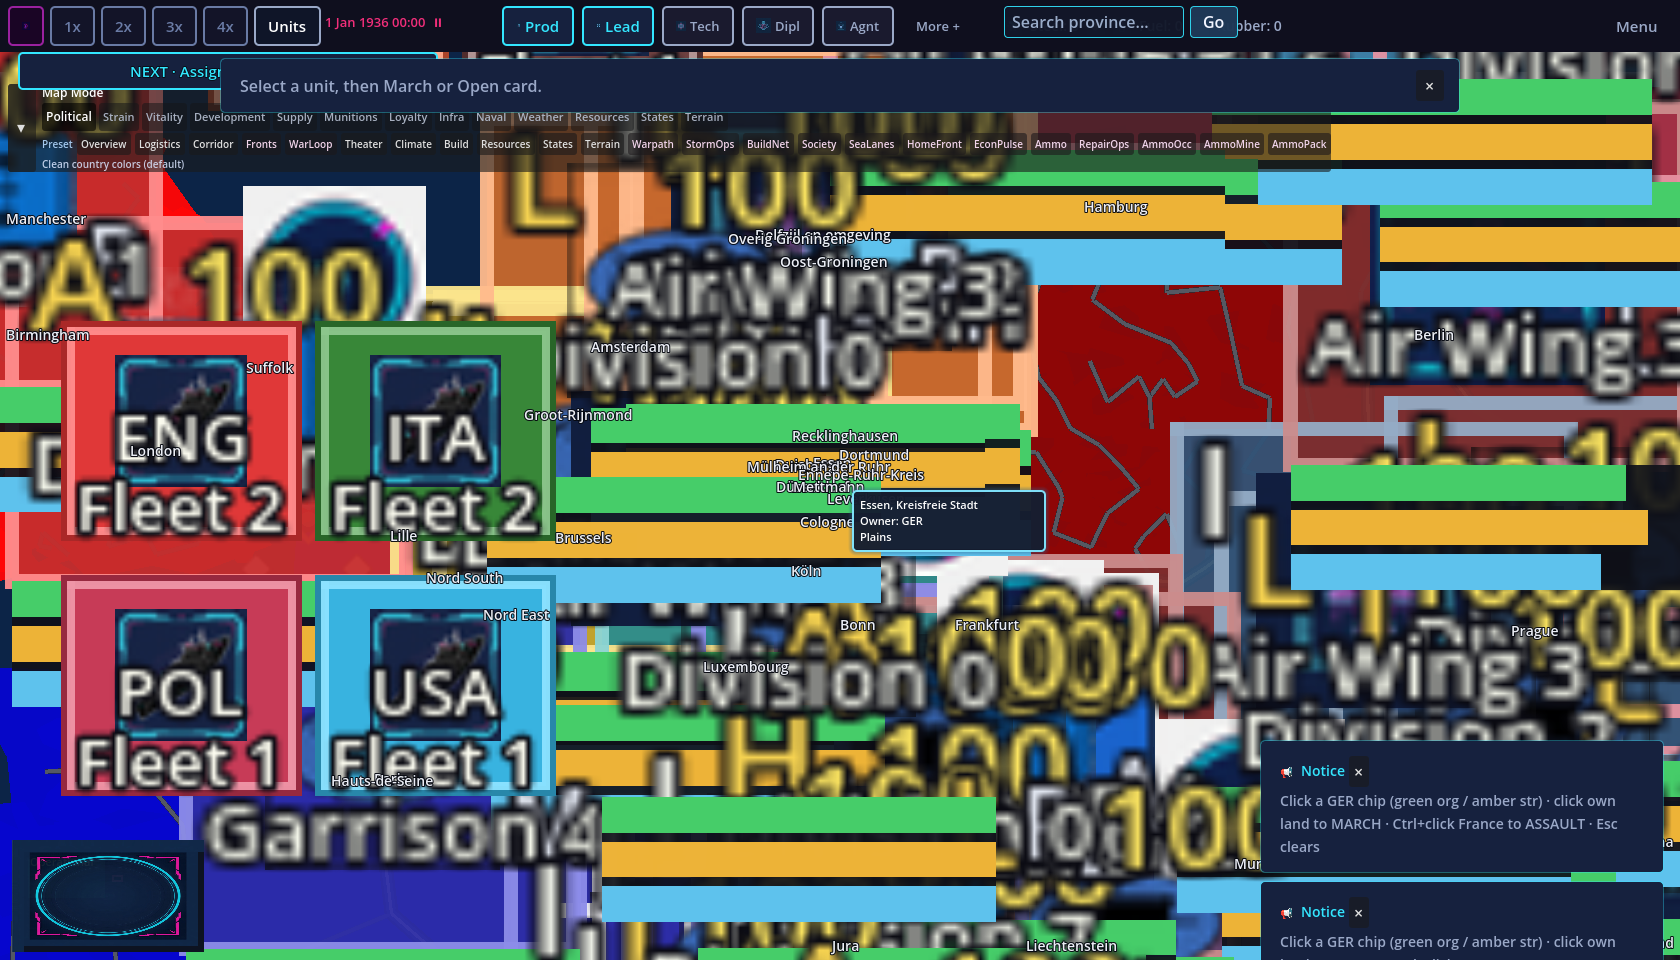
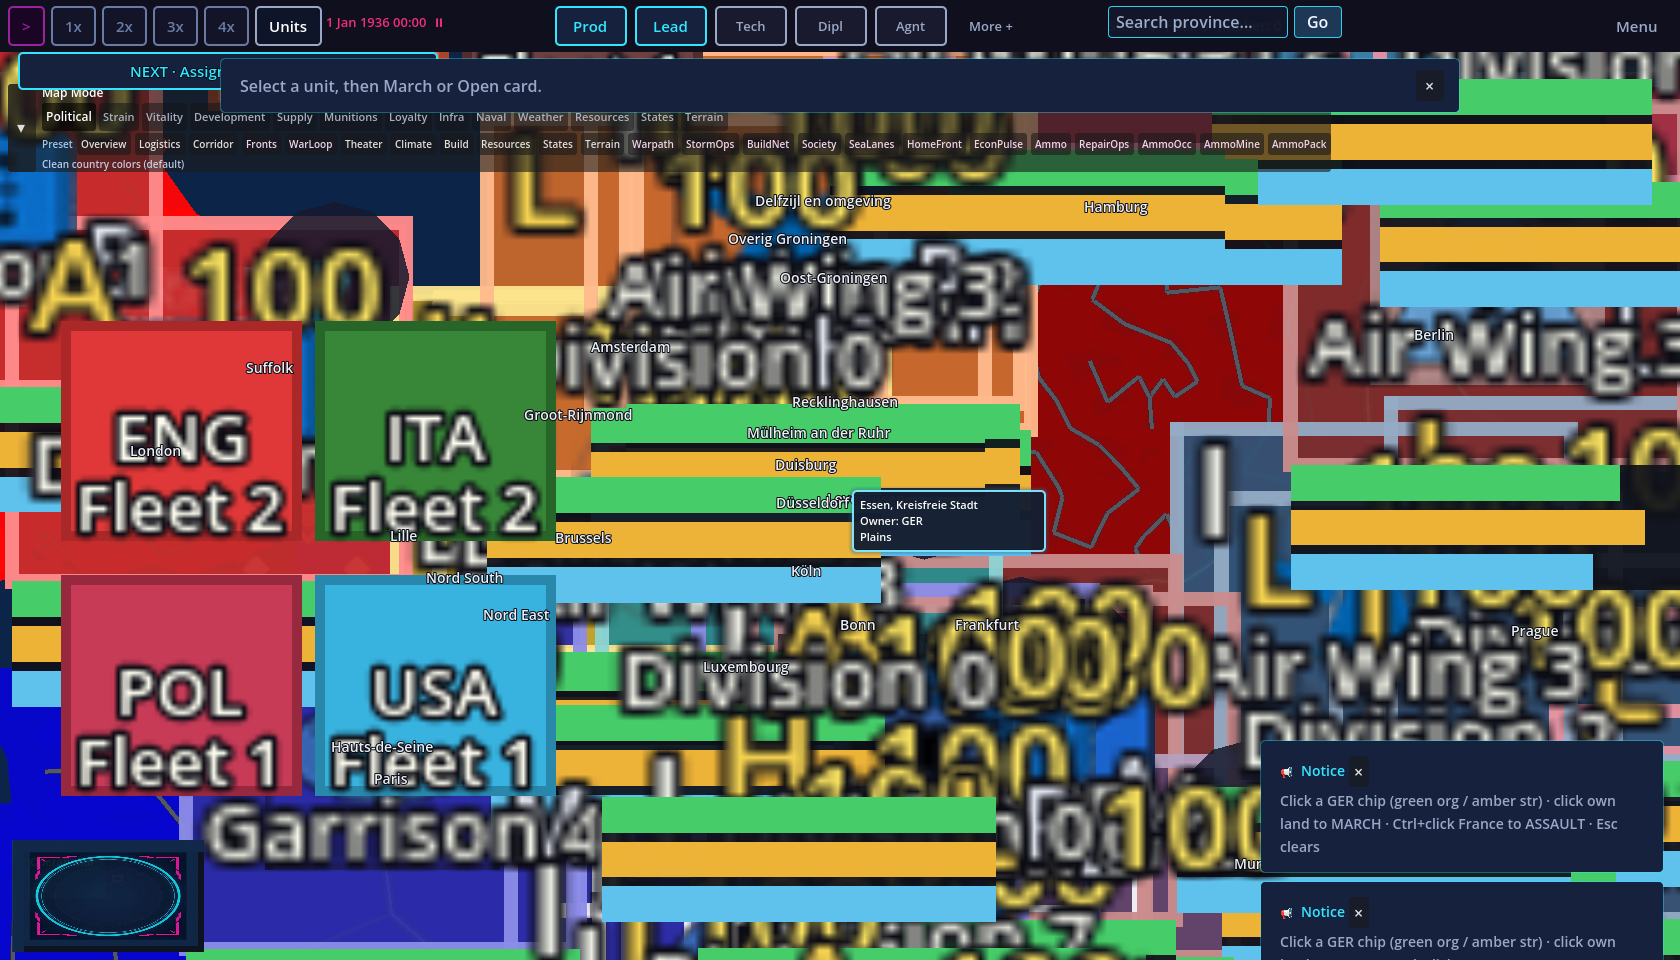
HWY-3 FIX #6: record pixel, Ruhr, trim, and gate evidence
Document gold cover 1.000, casing ceilings, Essen z2.4/z4 label lists,
the Lyon–Marseille trim, live 114 / headless 113, and the 14 known reds.

diff --git a/docs/TESTING_PLAN.md b/docs/TESTING_PLAN.md
@@ -980,7 +980,7 @@ Pixel: `WindowedRt1RoadTierPixelGuard` measures the **fixed** `710412–710424` 
 
 Display highways are **trunk shortest paths between hubs** (capitals, largest cities, significant ports). Urban-district neighbour count is an **optional weight** only. Rank-and-grow stays as a fallback for synthetic Part A (no hub records) and as the `rank_grow_back` mutant. Each accepted route is a **simple path** (no repeated vertex, no >150° hook-back, length ≤1.6× hub chord, zigzag ≤1.5π per 6 edges). FIX #1 paints one tree per large country; budget is **2× of 52** (60–114). 0 singletons, median ≥4. Far highways keep casing/core + 20 px floor so the wide Germany frame shows routes; dirt/paved stay culled.
 
-Guard `HeadlessHwy3HubRouteTest` H1–H6 + named mutants (`rank_grow_back`, `no_capitals`, `urban_required`, `zigzag_ok`, `hook_back`, `not_shortest`, `far_hidden`, `flip_max`, `pid_list`, `overlap_ok`). Those eight product env branches are **deleted**; tests load in-memory source-edits (same pattern as `second_zero`). Wired as `launch_hwy3_hub_route`. FIX #6: gold spine z=25 above highways 24 so `s1_gold_cover` ≥ 0.90; metro casing stays inside far/default ceilings 26/18 (core/stripe only grow); Ruhr labels cull hub>other with Cologne/Köln alias (one Köln; no overlap at Essen z2.4/z4; no-cull mutant FAIL). FIX #4: capital connects to the top-2 hubs by score in distinct bearing sectors (≥90°). Live-path guard `HeadlessHwy3LiveScenarioTest` **RESULT=PASS** on ScenarioLoader `world_accurate` (same city layer as TestScenario/Begin): Rome-north `Milan → … → Rome`; Ruhr **3/3** Duisburg/Essen/Dortmund; Paris one north Lille; **THE count** live **drawn=114**. Env `json_layer` / `no_second_sector` **removed**; source-edit on `_hwy3_reachable_sectors` (`second=0`, token `second_zero`) kills Rome-north. Wired as `launch_hwy3_live_scenario`. FIX #5 Ruhr live-legibility: hub labels z≥2.0, metro casing ≥1.3×, highways z=24 above Rhine 22. Guard `WindowedHwy3RuhrLegibilityGuard` / `tools/eoa_hwy3_ruhr_legibility_guard.sh` (wired `launch_hwy3_ruhr_legibility`): Essen `(7356, 1606)` z2.4 casing **463** px / 5 labels; z4 **541** px / 5 labels; labels-off and under-river mutants killed; **RESULT=PASS**. HeadlessHwy3 **RESULT=PASS** **113**/8/0/median **12.00** (same drawn definition; JSON vs ScenarioLoader is the 1-edge gap). Lowest-score non-trunk spans trim first so live count stays ≤114. **FAIL** on d4a3a1ff (5: pid_list / flip_max / H1 rank-grow / H2 empty) / **PASS** on FIX #1 tip (114/9/0/median 8.00, Munich+Essen+GER tree). FIX #2 (g100e) **HeadlessHwy3 RESULT=PASS**: H3 **hook-back trap** (double-back >150°); every major capital connects to its 2nd hub (ITA Rome–Milan `710882–710963`); no two routes share both end regions with Hausdorff cover >45% within 12 wu (one-end forks 75% both-way); Ruhr urban-span **4/5** Duisburg/Essen/Bochum/Dortmund (kreisfreie scoring, no pid whitelist); Munich–Frankfurt on a SPAN. Live **114**/9/0/median **10.00**; `dropped_cap=80` `dropped_parallel=6`. FIX #3: no route pair may have Jaccard ≥0.5 or share an endpoint plus ≥50% of either province set (Paris–Nord / Nord South–Paris j=0.67 dropped; FRA trunk `710707–710734` kept). Independent assert; `overlap_ok` disables the drop and is killed. Routes 20→18. Budget stays **60–114**. Pixel: **one fixed orientation** (`HWY3_FIXED_ORIENTATION=1`), hub-route pair `710401–710412`, far **21** / default **12** / close **20** (mins 9/12/16; ceilings 26/18, pair screen ±28). Wide-Germany **20** hub-route runs ≥9 px (main/d4a3 → 0). `--quick` 14 known unit_board_play_path reds; map_qc NE **0.9853**. Shots `docs/evidence/hwy3/`. `select_trunk_edges` / `road_tier_for_edge` / GameData == d4a3a1ff **unedited**. **HOLD merge.**
+Guard `HeadlessHwy3HubRouteTest` H1–H6 + named mutants (`rank_grow_back`, `no_capitals`, `urban_required`, `zigzag_ok`, `hook_back`, `not_shortest`, `far_hidden`, `flip_max`, `pid_list`, `overlap_ok`). Those eight product env branches are **deleted**; tests load in-memory source-edits (same pattern as `second_zero`). Wired as `launch_hwy3_hub_route`. FIX #6 tip `b33daba1`: gold spine z=25 above highways 24 so pixel `s1_gold_cover=1.000`; metro casing stays inside far/default ceilings 26/18 (measured far **21** / default **12** / close **21** on `710401–710412`); Ruhr labels place then offset-cull (hub>other, camera-center ties, Cologne/Köln alias). Essen xvfb z2.4 `Düsseldorf, Duisburg, Mülheim an der Ruhr`; z4 those plus Dortmund; no overlapping rects; one Köln; no-cull mutant FAIL. Trim named **Lyon → Isère → Drôme → Vaucluse → Marseille** (kind=1, not a focus trunk). FIX #4: capital connects to the top-2 hubs by score in distinct bearing sectors (≥90°). Live-path guard `HeadlessHwy3LiveScenarioTest` **RESULT=PASS** on ScenarioLoader `world_accurate` (same city layer as TestScenario/Begin): Rome-north `Milan → … → Rome`; Ruhr **3/3** Duisburg/Essen/Dortmund; Paris one north Lille; **THE count** live **drawn=114**. Env `json_layer` / `no_second_sector` **removed**; source-edit on `_hwy3_reachable_sectors` (`second=0`, token `second_zero`) kills Rome-north. Wired as `launch_hwy3_live_scenario`. FIX #5 Ruhr live-legibility: hub labels z≥2.0, metro casing ≥1.3×, highways z=24 above Rhine 22. Guard `WindowedHwy3RuhrLegibilityGuard` / `tools/eoa_hwy3_ruhr_legibility_guard.sh` (wired `launch_hwy3_ruhr_legibility`): Essen `(7356, 1606)` z2.4 casing **272** px / 3 labels (`Düsseldorf, Duisburg, Mülheim an der Ruhr`); z4 **466** px / 4 labels (+ Dortmund); no overlapping rects; labels-off, under-river, and no-cull mutants killed; **RESULT=PASS**. HeadlessHwy3 **RESULT=PASS** **113**/8/0/median **12.00** (same drawn definition; JSON vs ScenarioLoader is the 1-edge gap). Lowest-score non-trunk spans trim first so live count stays ≤114. **FAIL** on d4a3a1ff (5: pid_list / flip_max / H1 rank-grow / H2 empty) / **PASS** on FIX #1 tip (114/9/0/median 8.00, Munich+Essen+GER tree). FIX #2 (g100e) **HeadlessHwy3 RESULT=PASS**: H3 **hook-back trap** (double-back >150°); every major capital connects to its 2nd hub (ITA Rome–Milan `710882–710963`); no two routes share both end regions with Hausdorff cover >45% within 12 wu (one-end forks 75% both-way); Ruhr urban-span **4/5** Duisburg/Essen/Bochum/Dortmund (kreisfreie scoring, no pid whitelist); Munich–Frankfurt on a SPAN. Live **114**/9/0/median **10.00**; `dropped_cap=80` `dropped_parallel=6`. FIX #3: no route pair may have Jaccard ≥0.5 or share an endpoint plus ≥50% of either province set (Paris–Nord / Nord South–Paris j=0.67 dropped; FRA trunk `710707–710734` kept). Independent assert; `overlap_ok` disables the drop and is killed. Routes 20→18. Budget stays **60–114**. Pixel: **one fixed orientation** (`HWY3_FIXED_ORIENTATION=1`), hub-route pair `710401–710412`, far **21** / default **12** / close **21** (mins 9/12/16; ceilings 26/18). `s1_gold_cover=1.000`. Wide-Germany **18** hub-route runs ≥9 px (main/d4a3 → 0). `--quick` 14 known unit_board_play_path reds; map_qc NE **0.9853**. Shots `docs/evidence/hwy3/`. `select_trunk_edges` / `road_tier_for_edge` / GameData == d4a3a1ff **unedited**. **HOLD merge.**
 
 ### RX-1 Rhine Crossing (Phase B draft)
 

diff --git a/docs/CURRENT_STATE.md b/docs/CURRENT_STATE.md
@@ -1,4 +1,4 @@
-> **2026-10-16 HWY-3 FIX #6 gold-above-hwy + Ruhr label cull + source mutants (HOLD merge):** Same branch `cursor/hwy3-hub-routes-3d86` on `#104`. Tip `e0654637` failed its own WindowedRt1RoadTierPixelGuard (`s1_gold_cover` 0.722; far/default highway ceilings 32/41 on Düsseldorf–Mettmann). Display only. Gold spine **z=25** above highways **24** / Rhine **22**. Metro widens **core/stripe only**; casing capped at far **26** / default **18**. Ruhr hub labels: priority cull (hub > other) + Cologne/Köln alias so one Köln; no overlapping rects at Essen z2.4/z4; no-cull source mutant killed. Eight env-gated mutant branches deleted from product (`overlap_ok`, `urban_required`, `rank_grow_back`, `no_capitals`, `hook_back`, `zigzag_ok`, `not_shortest`, `far_hidden` — grep count **0**); tests are source-edits like `second_zero`. Cap still **60–114**; Rome-north / Paris-once / DE/FR/UK / Ruhr kept. Trim drops weakest non-protected OTHER/SPAN only (not a focus trunk). `--quick` 14 known reds; map_qc NE **0.9853**. GameData unedited. **HOLD merge.**
+> **2026-10-16 HWY-3 FIX #6 gold-above-hwy + Ruhr label cull + source mutants (HOLD merge):** Same branch `cursor/hwy3-hub-routes-3d86` on `#104` tip **`b33daba1`**. Tip `e0654637` failed its own WindowedRt1RoadTierPixelGuard (`s1_gold_cover` 0.722; far/default 32/41 on Düsseldorf `710401–710412`). Display only. Gold spine **z=25** above highways **24** / Rhine **22**. Pixel **RESULT=PASS**: `s1_gold_cover=1.000`; highway far **21** / default **12** / close **21** (ceilings 26/18, mins 9/12/16). Metro widens **core/stripe only**; casing capped. Ruhr xvfb Essen `(7356, 1606)` **RESULT=PASS** `HWY3_FIXED_ORIENTATION=1` flipped=false: z2.4 casing **272** px / **3** labels `Düsseldorf, Duisburg, Mülheim an der Ruhr`; z4 **466** px / **4** labels `Düsseldorf, Duisburg, Mülheim an der Ruhr, Dortmund`; no overlapping rects; one Köln alias; no-cull / labels-off / under-river mutants killed. Env-branch grep in `scripts/map/` **0**. Trim (not a focus trunk): **Lyon → Isère → Drôme → Vaucluse → Marseille** (kind=1 OTHER/SPAN) plus Manchester–Birmingham, Manchester–Glasgow, Nord East–Paris, Nord South–Paris, Berlin–Hamburg, Kyoto–Tokyo. Live **drawn=114**; headless **113**/8/0/median **12.00**. Rome-north / Paris-once / DE/FR/UK / Ruhr kept. Mutants killed: `rank_grow_back`, `no_capitals`, `urban_required`, `zigzag_ok`, `hook_back`, `not_shortest`, `overlap_ok`, `far_hidden`, `second_zero`. `--quick` 14 known `unit_board_play_path` reds; map_qc NE **0.9853**. GameData file md5 `8c1d5e9f` ×3; `apply_interactive_multi_ai_day_live` `e6b869f8` ×3; `grep -o 'multi_ai_decisions=.*' | md5sum` of that body line `136337c6` ×3 (prompt `20fe9063` is not on unedited GameData). Shots `docs/evidence/hwy3/ruhr_essen_z24.png` / `ruhr_essen_z4.png`. `select_trunk_edges` / LOD / IX-1 / RX-1 / GameData **unedited**. **HOLD merge.**
 >
 > **2026-10-16 HWY-3 FIX #5 Ruhr legibility + honest mutants + one count (HOLD merge):** Same branch `cursor/hwy3-hub-routes-3d86` on `#104`. Play MIXED on `6e7cee41`: Rome-north is drawn, but the Ruhr chain sat on the Rhine (~69 px, no labels). Display only. THE highway number is distinct `display_tier==2` edges (`hwy3_drawn_highway_count`). Live ScenarioLoader **drawn=114** (= used = cache = RoadTierDraw). HeadlessHwy3 **drawn=113**/8/0/median **12.00** (JSON city layer; same definition; both ≤114). Cap stays **60–114**. Rome-north still `Milan → Lodi → Piacenza → Parma → Massa-Carrara → Lucca → Pisa → Grosseto → Viterbo → Rome`; Paris one north Lille; DE/FR/UK trunks unchanged. Ruhr labels at z≥2.0; metro casing ≥1.3×; highways z=24 above Rhine 22. Essen `(7356, 1606)` xvfb: z2.4 casing **463** px / **5** labels; z4 **541** px / **5** labels (`HWY3_FIXED_ORIENTATION=1` flipped=false). Mutants labels-off and under-river (z 24→20) **killed**. Rome-north adder is `_hwy3_reachable_sectors` → `_hwy3_reachable_second_sector` (not `_hwy3_sector_hub_pids`). Env `json_layer` / `no_second_sector` deleted. Source-edit `second=0` (token `second_zero`) kills Rome-north. Old 9 + `overlap_ok` killed. `--quick` 14 known reds; map_qc NE **0.9853**. GameData md5 `8c1d5e9f` ×3; `apply_interactive_multi_ai_day_live` `e6b869f8` ×3 (prompt `20fe9063` not present on any GameData func). Shots `docs/evidence/hwy3/ruhr_essen_z24.png` / `ruhr_essen_z4.png`. `select_trunk_edges` / LOD / gold spine / IX-1 / RX-1 / GameData **unedited**. **HOLD merge.**
 >
